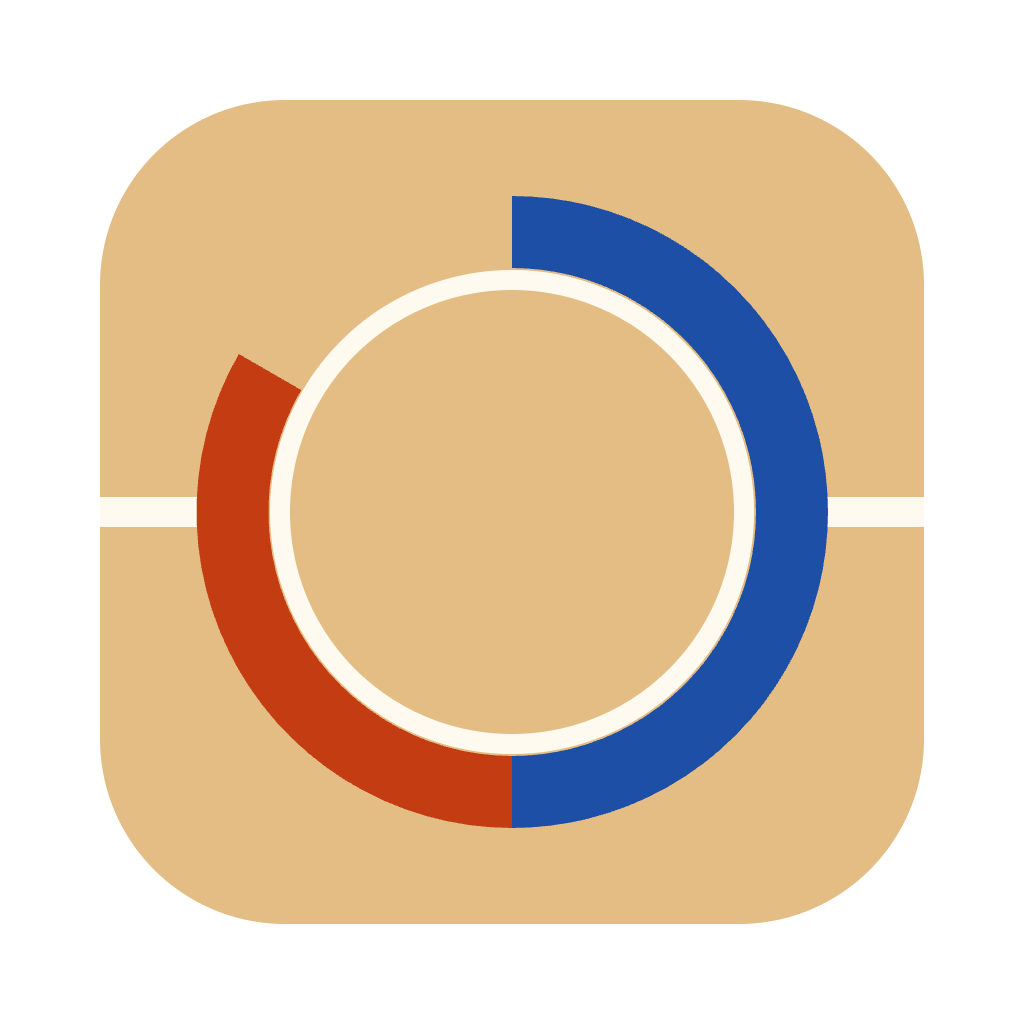
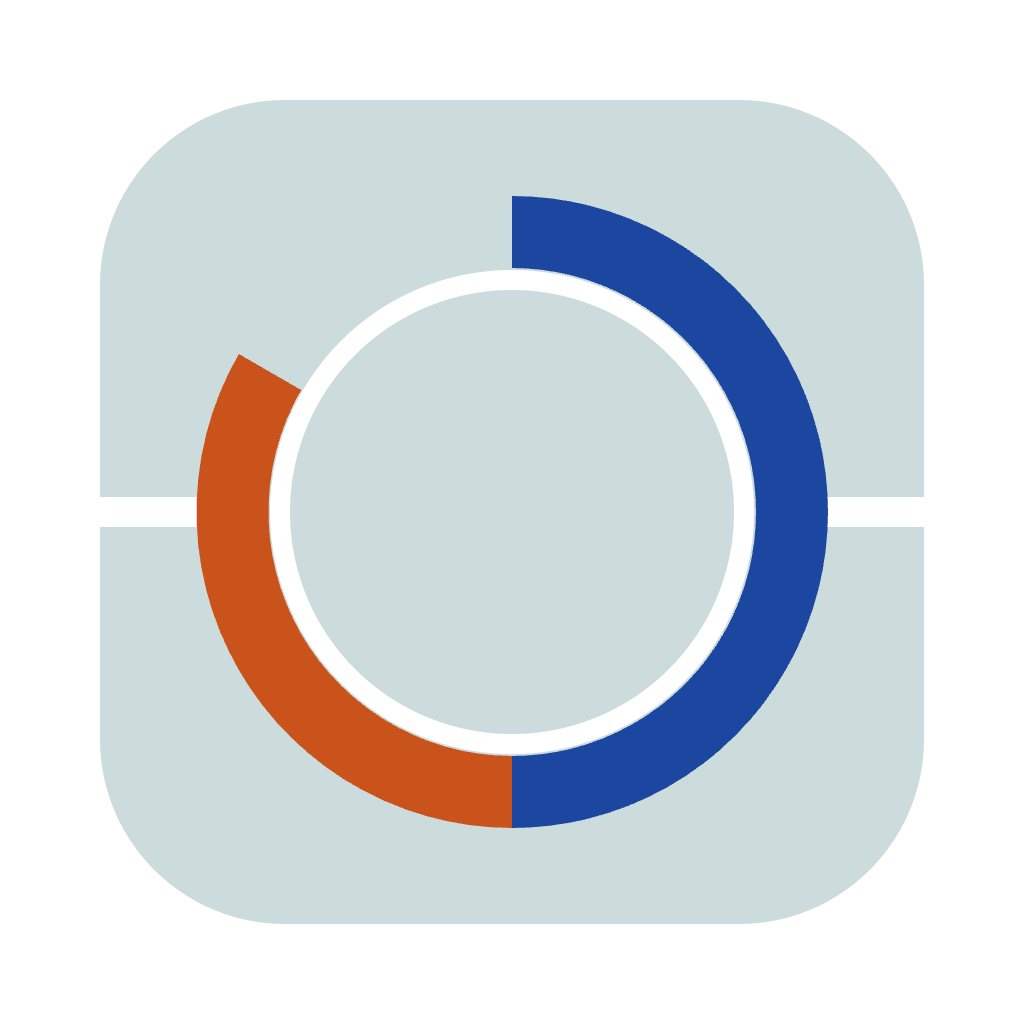
Switch light theme from maple to a cool blue-gray floor
Light floor is now #ccdbdc with matching panel, ink and shadow tones.
Court blue and key orange are deepened slightly so text keeps 4.5:1
on the new floor. Icon recolored to match. Design docs updated.

diff --git a/src/renderer/src/styles.css b/src/renderer/src/styles.css
@@ -1,26 +1,26 @@
-/* MOVE: a painted sports court. Maple floor by day, poured night court in the dark.
+/* MOVE: a painted sports court. Cool blue-gray sport floor by day, poured night court in the dark.
    Two paint colours carry every state: court blue for work, key orange for exercise. */
 
 :root {
   color-scheme: light;
-  --floor: #e4bd84;
-  --floor-deep: #d7a965;
-  --floor-raised: #ecca97;
-  --line: #fffaf0;
-  --line-soft: rgb(255 250 240 / 0.55);
-  --ink: #2a1c0c;
-  --ink-soft: #5a3f1e;
-  --ink-faint: #7a5a32;
-  --work: #1d4fa6;
+  --floor: #ccdbdc;
+  --floor-deep: #b9cbcd;
+  --floor-raised: #dae6e7;
+  --line: #ffffff;
+  --line-soft: rgb(255 255 255 / 0.6);
+  --ink: #13222a;
+  --ink-soft: #33464e;
+  --ink-faint: #45585f;
+  --work: #1b47a0;
   --work-ink: #ffffff;
-  --work-wash: rgb(29 79 166 / 0.14);
-  --exercise: #b0440a;
+  --work-wash: rgb(27 71 160 / 0.13);
+  --exercise: #9c3b08;
   --exercise-ink: #ffffff;
-  --exercise-wash: rgb(176 68 10 / 0.14);
+  --exercise-wash: rgb(156 59 8 / 0.12);
   --danger: #a3200f;
   --danger-ink: #ffffff;
-  --focus: #1d4fa6;
-  --shadow: 0 1px 2px rgb(74 44 8 / 0.18), 0 8px 24px -12px rgb(74 44 8 / 0.35);
+  --focus: #1b47a0;
+  --shadow: 0 1px 2px rgb(19 40 48 / 0.16), 0 8px 24px -12px rgb(19 40 48 / 0.32);
 
   --display: 'Barlow Condensed', 'Barlow', sans-serif;
   --ui: 'Barlow', system-ui, sans-serif;

diff --git a/DESIGN.md b/DESIGN.md
@@ -2,22 +2,22 @@
 name: MOVE
 description: A pomodoro timer where every break is an exercise, drawn as a painted sports court.
 colors:
-  floor: "#e4bd84"
-  floor-deep: "#d7a965"
-  floor-raised: "#ecca97"
-  line: "#fffaf0"
-  line-soft: "rgb(255 250 240 / 0.55)"
-  ink: "#2a1c0c"
-  ink-soft: "#5a3f1e"
-  ink-faint: "#7a5a32"
-  work: "#1d4fa6"
+  floor: "#ccdbdc"
+  floor-deep: "#b9cbcd"
+  floor-raised: "#dae6e7"
+  line: "#ffffff"
+  line-soft: "rgb(255 255 255 / 0.6)"
+  ink: "#13222a"
+  ink-soft: "#33464e"
+  ink-faint: "#45585f"
+  work: "#1b47a0"
   work-ink: "#ffffff"
-  work-wash: "rgb(29 79 166 / 0.14)"
-  exercise: "#b0440a"
+  work-wash: "rgb(27 71 160 / 0.13)"
+  exercise: "#9c3b08"
   exercise-ink: "#ffffff"
-  exercise-wash: "rgb(176 68 10 / 0.14)"
+  exercise-wash: "rgb(156 59 8 / 0.12)"
   danger: "#a3200f"
-  focus: "#1d4fa6"
+  focus: "#1b47a0"
   floor-dark: "#10141c"
   floor-deep-dark: "#0a0d13"
   floor-raised-dark: "#181e2a"
@@ -164,7 +164,7 @@ components:
 
 **Creative North Star: "The Painted Court"**
 
-MOVE is a gymnasium floor. Light theme is sealed maple: a saturated honey ground with deeper grain-tone panels. Dark theme is a night court: a poured blue-black floor under the same white line paint. Time is not drawn as a widget. It is drawn as court markings: the centre circle is the radial timer, the half-court line runs through it edge to edge, the mini window is a lane stripe, and the sequence in Setup is a score of painted bars sized to each period's minutes.
+MOVE is a gymnasium floor. Light theme is a cool sport floor: a faint blue-gray ground with slightly deeper panels. Dark theme is a night court: a poured blue-black floor under the same white line paint. Time is not drawn as a widget. It is drawn as court markings: the centre circle is the radial timer, the half-court line runs through it edge to edge, the mini window is a lane stripe, and the sequence in Setup is a score of painted bars sized to each period's minutes.
 
 Two paint colours carry every state. Court blue means work; key orange means exercise, and anything that asks you to act after an exercise (ready, finished). White boundary paint draws every neutral rule, outline and divider. Type is athletic signage: Barlow Condensed for numerals and headings, Barlow for UI text, tabular figures everywhere. The world is flat: no glass, no gradient fills, no texture. Depth is just paint over floor.
 
@@ -174,12 +174,12 @@ The system is built for a glance from across the room. One colour says which per
 - Two paints (blue = work, orange = exercise) plus white line paint; no other accent.
 - Flat, painted strokes with square (butt) ends; 2-4px lines, 30px paint arc.
 - Condensed signage numerals at container-relative scale, tabular throughout.
-- Light and dark are two real floors (maple, night court), switched by `prefers-color-scheme`.
+- Light and dark are two real floors (blue-gray sport floor, night court), switched by `prefers-color-scheme`.
 - One authored transition: the boundary repaint.
 
 ## Colors
 
-Honey wood or night poured floor, white line paint, and two saturated court paints; every token has a light and a dark value (dark keys carry the `-dark` suffix and map to the same CSS custom property).
+Blue-gray sport floor or night poured floor, white line paint, and two saturated court paints; every token has a light and a dark value (dark keys carry the `-dark` suffix and map to the same CSS custom property).
 
 ### Primary
 - **Court Blue** (`work` / `work-dark`): the work period. Ring paint, lane paint, Work pill, every Start work button, the work segment of the sequence score, text selection, input caret and the focus ring.
@@ -191,7 +191,7 @@ Honey wood or night poured floor, white line paint, and two saturated court pain
 - **Whistle Red** (`danger` / `danger-dark`): destructive confirmation only (Delete button, trash-icon hover). Never a phase colour.
 
 ### Neutral
-- **Maple Floor** (`floor`): the page ground. Saturated honey, not cream. Night: **Poured Night Court** (`floor-dark`).
+- **Sport Floor** (`floor`): the page ground. A faint, cool blue-gray, never white. Night: **Poured Night Court** (`floor-dark`).
 - **Grain Panel** (`floor-deep`): the Setup sequence panel and sequence rows; one step deeper than the floor.
 - **Sealed Top Coat** (`floor-raised`): input fills and the lifted (dragging) row.
 - **Boundary Line Paint** (`line`): topbar rule, half-court line, ring boundary, line-button outlines, input borders, the Setup centre line, segmented control. `line-soft` is the same paint thinned: hover fills, inner ring, lane track, dividers.
@@ -202,11 +202,11 @@ Honey wood or night poured floor, white line paint, and two saturated court pain
 
 **The Paint Is Never Alone Rule.** A phase colour always travels with a word (the pill label, the exercise name, "Paused", "of work"). Colour never carries state by itself.
 
-**The Large Orange Rule.** In the light theme key orange on maple measures 3.2:1, so orange text sits only at headline size (30px and up). Small text on orange uses `exercise-ink`, never the reverse.
+**The Orange Text Rule.** In the light theme key orange on the floor measures 4.8:1, enough for text at any size; keep it on the main floor, since on `floor-deep` it drops to 4.1:1 and should stay at headline size there. Small text on orange uses `exercise-ink`, never the reverse.
 
-**The Line Is Not A Signal Rule.** White line paint on maple is a low-contrast (1.7:1) boundary by design. It frames and divides; it never alone marks a state, a selection or an error.
+**The Line Is Not A Signal Rule.** White line paint on the light floor is a low-contrast (1.4:1) boundary by design. It frames and divides; it never alone marks a state, a selection or an error.
 
-**The Honey Not Paper Rule.** The light floor stays saturated honey wood. Do not lighten it toward cream or off-white.
+**The Blue-Gray Not White Rule.** The light floor stays a visible cool blue-gray (#ccdbdc). Do not lighten it toward white or warm it toward wood; white is reserved for line paint.
 
 ## Typography
 
@@ -242,7 +242,7 @@ Spacing runs on a loose rhythm: 2px hairline gaps between list rows and score se
 Flat by default. Depth comes from paint and floor tone: `floor-deep` sets a panel back, `floor-raised` brings a field forward, and paint sits on the floor rather than above it. A single soft shadow exists only for lift.
 
 ### Shadow Vocabulary
-- **Lift** (`box-shadow: 0 1px 2px rgb(74 44 8 / 0.18), 0 8px 24px -12px rgb(74 44 8 / 0.35)`; night: `0 1px 2px rgb(0 0 0 / 0.4), 0 10px 28px -12px rgb(0 0 0 / 0.7)`): primary button hover, the drag chip, and a sequence row while dragged.
+- **Lift** (`box-shadow: 0 1px 2px rgb(19 40 48 / 0.16), 0 8px 24px -12px rgb(19 40 48 / 0.32)`; night: `0 1px 2px rgb(0 0 0 / 0.4), 0 10px 28px -12px rgb(0 0 0 / 0.7)`): primary button hover, the drag chip, and a sequence row while dragged.
 
 ### Named Rules
 **The Lift Only Rule.** Nothing casts a shadow at rest. A shadow means "this is in your hand or under your pointer".
@@ -305,7 +305,7 @@ At each period boundary the incoming paint floods the window from the ring outwa
 
 ### Don't:
 - **Don't** introduce a third accent or a gradient fill; the paused hatch is a stripe mask over paint, not a gradient.
-- **Don't** add glass, blur, texture or wood-grain imagery; the floor is a flat tone.
+- **Don't** add glass, blur, or texture imagery; the floor is a flat tone.
 - **Don't** cast a shadow on anything at rest.
 - **Don't** fade the light floor toward cream or paper.
 - **Don't** use white line paint as the only signal of state, selection or error.

diff --git a/.impeccable/surfaces/src-renderer-src-app-tsx.md b/.impeccable/surfaces/src-renderer-src-app-tsx.md
@@ -15,7 +15,7 @@ seed: 645a83dc (assigned 4 of 7: gymnasium court floor)
 
 THESIS: The app is a painted sports court. Time is drawn as court lines in the period's own paint colour, not as a widget. Refuses the category default: a tomato-red circle on a white card, or neon digits on black.
 
-OWN-WORLD: Light = sealed maple floor (warm honey ground, deeper grain-tone panels), dark = night court (deep blue-black poured floor). Two paint colours carry every state: court blue = WORK, key orange = EXERCISE; white boundary line paint for neutral rules. Condensed athletic signage face (Barlow Condensed) for numerals and headings, Barlow for UI text. Tabular figures. Lines are flat painted strokes with square ends; no glass, no gradients.
+OWN-WORLD: Light = cool blue-gray sport floor (#ccdbdc ground, slightly deeper panels; changed from maple at the owner's request 2026-10-29), dark = night court (deep blue-black poured floor). Two paint colours carry every state: court blue = WORK, key orange = EXERCISE; white boundary line paint for neutral rules. Condensed athletic signage face (Barlow Condensed) for numerals and headings, Barlow for UI text. Tabular figures. Lines are flat painted strokes with square ends; no glass, no gradients.
 
 STORY: Glance at the window: one colour tells you work or exercise, one giant number tells you how long, the exercise name tells you what to do.
 
@@ -23,4 +23,4 @@ FIRST VIEWPORT: Timer screen. Centre circle of the court is the radial timer; th
 
 SIGNATURE: At a boundary the whole floor "repaints": the period colour floods in from the ring outward (one authored transition), then settles. Raise from labanotation (declined): in Setup, each sequence step's bar length is proportional to its duration, so the sequence reads as a time score. Raise from gate board (declined): the "waiting for Start work" state stays lit in the exercise colour until acknowledged.
 
-RISK: Maple ground could drift toward cream; keep it a saturated honey wood tone, not paper.
+RISK: Blue-gray ground could drift toward white; keep it a visible cool tone so white line paint still reads.
